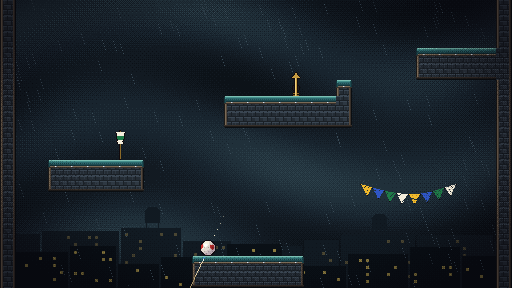
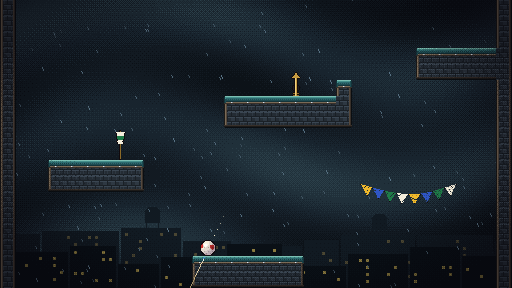
Animate the rain on the Fire Escape and Rooftops
The rain was painted into the backdrops and never moved. The backdrops are
now dry and RainLayer draws falling drops behind the ledges on rainy
screens, bent by each stretch's gust.

diff --git a/docs/DESIGN.md b/docs/DESIGN.md
@@ -186,3 +186,7 @@ Z is already a strike key here, so C is the plant key.
 - **Nothing counts:** the `training` mode never writes a run section to the save. Winning shows a "Training run complete" card with the run's numbers but changes no records, balls or unlocks. There are no lost balls: every one is hidden and left out of the physics.
 - **The flag** (`CheckpointFlag`, a `Prop`) is a brass pole with a cue-ball finial and a felt swallowtail pennant (`tools/art_checkpoint.lua`). The pennant is drawn one pixel column at a time, each shifted by a travelling sine wave that grows toward the fly end. Wind speeds the wave up and flattens the sag, flips the pennant downwind, and lifts it in an updraft. A ball rolling past or a heavy landing makes it flutter. It pops up with green sparks when planted, folds down when removed, and waves when you return to it. Only the newest flag is lit green and pulsing; older ones fade but stay standing to mark your route. Like all props it never touches the physics.
 - **Hints:** the training keys stay on the top line of the screen with the flag count. The normal controls line shows whenever the ball rests anywhere, not only on the bottom floor.
+
+## Rain
+
+The Rooftops storm and the Fire Escape used to have rain streaks painted into their backdrops, which looked frozen. The backdrops are now dry, and `RainLayer` draws about 170 falling drops just above the backdrop and behind the ledges and decor. It draws only on screens whose zone is rainy, so the rain stops cleanly at a zone edge even while the camera glides. Drops fall at up to 380 px/s, slanting one pixel across for every three down, like the old painted streaks, and nearer drops are lighter and faster. The gust on screen bends them: a crosswind slants them hard, an updraft slows them almost to a hang, and a downdraft drives them down. The Bell Tower is indoors and dry.

diff --git a/docs/VALIDATION.md b/docs/VALIDATION.md
@@ -222,3 +222,12 @@ The game used Godot's default web **Sample** playback (`AudioBufferSourceNode`s)
 **Fix:** `audio/general/default_playback_type.web=0` (Stream). Web audio now goes through Godot's own mixer in an AudioWorklet, like desktop.
 
 **Verified** in the user's Chrome on a release export with the fix: no sample sources start, audio is suspended until the first click, and then the output peaks at 0.45 idle on the title (music and ambience) and 0.45 in level 1. **Not checked:** Firefox, Safari, mobile, and the re-uploaded itch.io page itself (it needs the user's upload).
+
+## Animated rain: 9 November 2026
+
+The rain painted into `bg_storm` and `bg_fire_escape` is gone, and `RainLayer` animates it instead. The level 4 tests (conditions suite, now 74) check that:
+- it rains on the rooftops and on the fire escape, but not in the bell tower;
+- the drops actually move;
+- an updraft slows them, a crosswind slants them and a downdraft speeds them up.
+
+The rendered fire escape and rooftop screens show the rain behind the ledges. All suites pass: gameplay 46, menus 35, props 27, Hardcore 51, conditions 74, level 2 64, training 38.

diff --git a/README.md b/README.md
@@ -109,7 +109,7 @@ Only traps use red and yellow hazard colours, so they can't be mistaken for deco
 
 ## Level 4: The Gale
 
-15 screens from The Fire Escape up The Rooftops, with a calm stretch through The Bell Tower. Each windy stretch blows one way, right, left, up or down, for about three seconds at a time with calm in between. Gusts only push your ball in the air. Pale streaks and rain show where the wind is going, and wind socks, bunting and weather vanes follow it.
+15 screens from The Fire Escape up The Rooftops, with a calm stretch through The Bell Tower. Each windy stretch blows one way, right, left, up or down, for about three seconds at a time with calm in between. Gusts only push your ball in the air. Rain falls on the Fire Escape and the Rooftops and bends with each gust (slanting in a crosswind, slowed by an updraft, driven down by a downdraft), pale streaks show where the wind is going, and wind socks, bunting and weather vanes follow it.
 
 ## The tower
 
